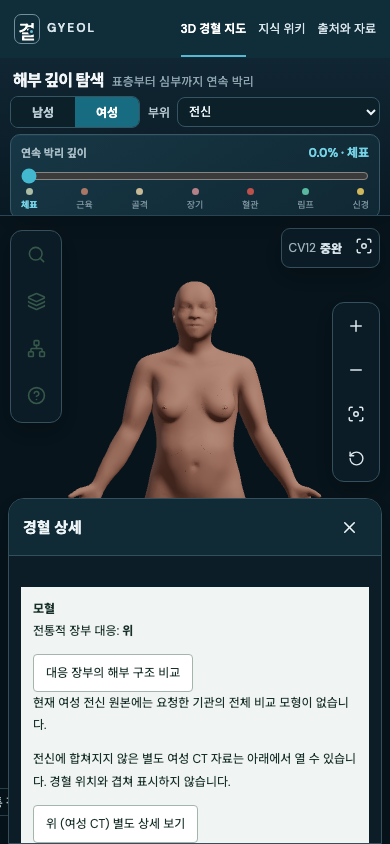
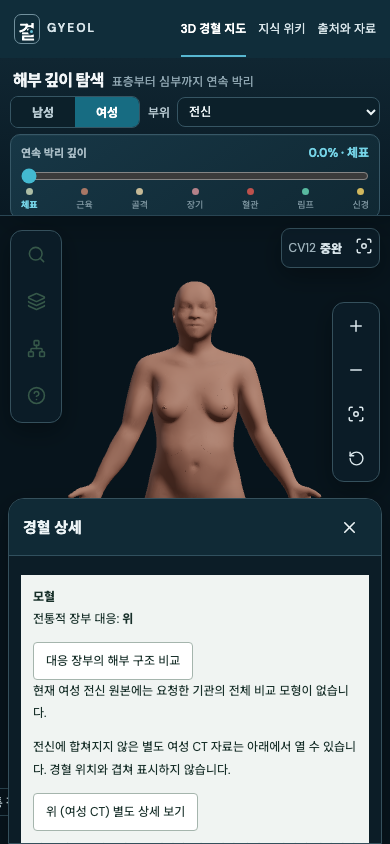
Keep CT alternative controls inside the readable mobile panel

Changed region(s): [[0.0308, 0.6777, 0.9538, 0.9858], [0.4923, 0.9858, 0.5231, 1.0]]

diff --git a/tests/browser/comparison-layout.spec.ts b/tests/browser/comparison-layout.spec.ts
@@ -46,6 +46,10 @@ test('female stomach comparison offers a separate CT detail without replacing th
   await compare(page);
   const link=page.getByRole('button',{name:'위 (여성 CT) 별도 상세 보기',exact:true});
   await expect(link).toBeVisible(); await expect(link).toBeInViewport();
+  await expect.poll(async()=>{
+    const button=await link.boundingBox(),dock=await page.locator('.dock-body').boundingBox();
+    return dock!.y+dock!.height-button!.y-button!.height;
+  }).toBeGreaterThan(4);
   await expect(page.locator('.comparison-feedback')).toContainText('전신에 합쳐지지 않은');
   await page.screenshot({path:'docs/anatomy-alignment/comparison-female-ct-mobile.png'});
   expect(requests.filter(u=>u.includes('/female-detail/'))).toHaveLength(0);

diff --git a/src/workspace.css b/src/workspace.css
@@ -1274,6 +1274,8 @@ body:has(.anatomy-workspace) .site-footer {
 .anatomy-workspace .dock-body .muted { color:#a9bdc6; }
 .anatomy-workspace .dock-body .concept-reference { color:var(--ink); background:var(--surface-subtle); }
 .anatomy-workspace .dock-body .concept-reference button { color:var(--ink); background:var(--surface); border-color:var(--border-strong); }
+.anatomy-workspace .dock-body .concept-reference small { font-size:12px; }
+.comparison-feedback { scroll-margin-block:12px; }
 .anatomy-workspace .structure-path { color:#7f9ba8 !important; font-size:11px; }
 .anatomy-workspace .selection-card { width:min(430px,calc(100% - 180px)); left:calc(50% + 159px); }
 @media (min-width:701px) and (max-width:900px) {

diff --git a/docs/anatomy-alignment/VERIFICATION.md b/docs/anatomy-alignment/VERIFICATION.md
@@ -159,3 +159,9 @@ agy 재검토 대화는 `c55ce317-2b5a-4856-bf39-e089090c9ae2`이며 [의견과 
 단위40/40·빌드와 전체 브라우저31/31(6.4분)을 통과했습니다. 이후 대비 스타일2개를 추가하고 가로 비교3종의 정면·후면·측면 중심/가림 검사를 강화해 신규2/2(23.7초), 빌드 및 가독성을 재통과했습니다. 신규 안내6항목의 실제 글자12px, 대비12.83~14.24:1입니다. [모바일 CT 안내](comparison-female-ct-mobile.png), [가로 위](comparison-CV12-landscape.png), [양쪽 콩팥](comparison-KI3-landscape.png), [폐](comparison-LU9-landscape.png)를 직접 확인했습니다. agy의 정적 검토와 이 실제 시각 검증은 [별도 구분](AGY_FOLLOWUP.md)했습니다.
 
 최종 프로덕션 스모크도 통과했습니다(남성9 GLB, 여성 HRA15청크, 요청 시 여성 CT1청크, 위키/묶음 복원, 출처·API, 브라우저 오류0). 네 화면 크기의 기존 시각 게이트 통과 후 데스크톱·작은 모바일·가로 단독 위 캡처를 직접 확인했습니다. 공개 정적 배포는 `scripts/check-comparison-pages.mjs`로 신규 비교 경로를 별도로 검사할 수 있습니다. 전체201단계 좌표 감사나 임상 위치 검증을 이번에 다시 수행했다고 주장하지 않습니다.
+
+정적 경로 스모크의 로컬 선행 실행에서 CT 버튼 하단843.25px, 스크롤 영역 하단843px로0.25px 이탈을 추가 발견했습니다. 기존 ‘화면 안에 있음’ 검사보다 엄격한 실제 스크롤 영역 경계 검사입니다. 부동소수점 허용치를 느슨하게 하지 않고 안내에12px 스크롤 여백을 추가하고, 브라우저 검사에도 버튼 아래4px 이상 여백 조건을 넣었습니다.
+
+여백 보완 후 신규2/2(24.7초), 빌드 및 정적 경로 로컬 스모크가 통과했습니다. 여백으로 추가 노출된 전통 장부 한계 문구가10px인 것도 가독성 검사에서 발견해12px로 명시했습니다.
+
+마지막 글자 보완 후 TypeScript·빌드, 모바일 여성 비교 경로1/1(12초), 추가 한계 문구를 포함한 가독성 검사를 재통과했습니다. 본 변경의 첫 배포 `e4f5cad` 및 [Pages 작업35485074473](https://github.com/jay-jang/gyeol-atlas/actions/runs/35485074473)은 성공했고, 위 여백·글자 보완을 후속 커밋으로 반영합니다.
